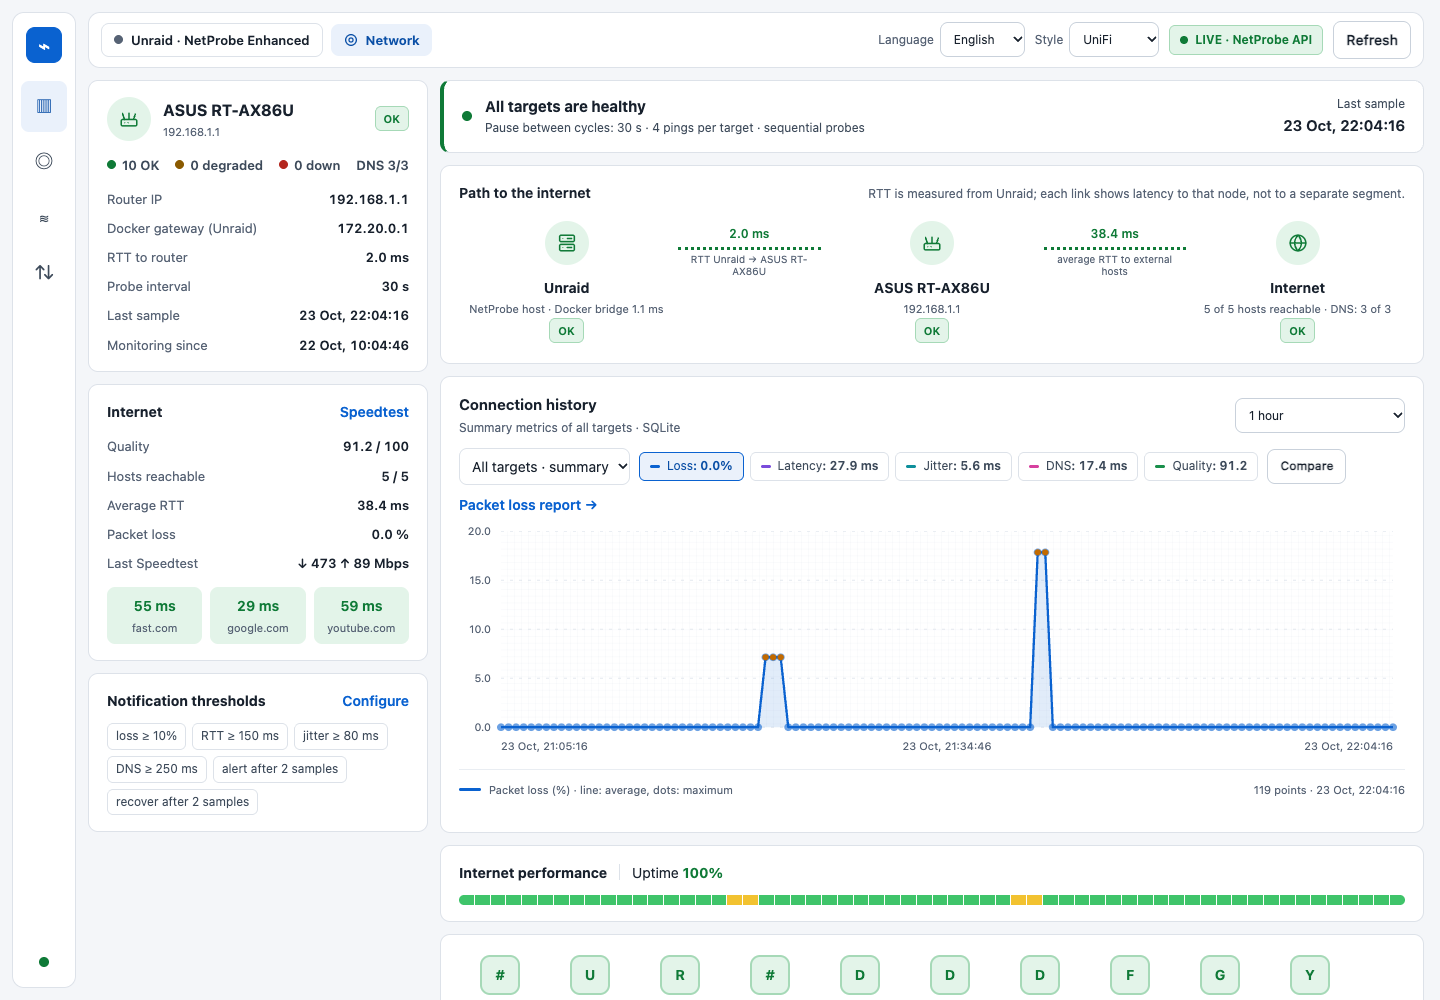
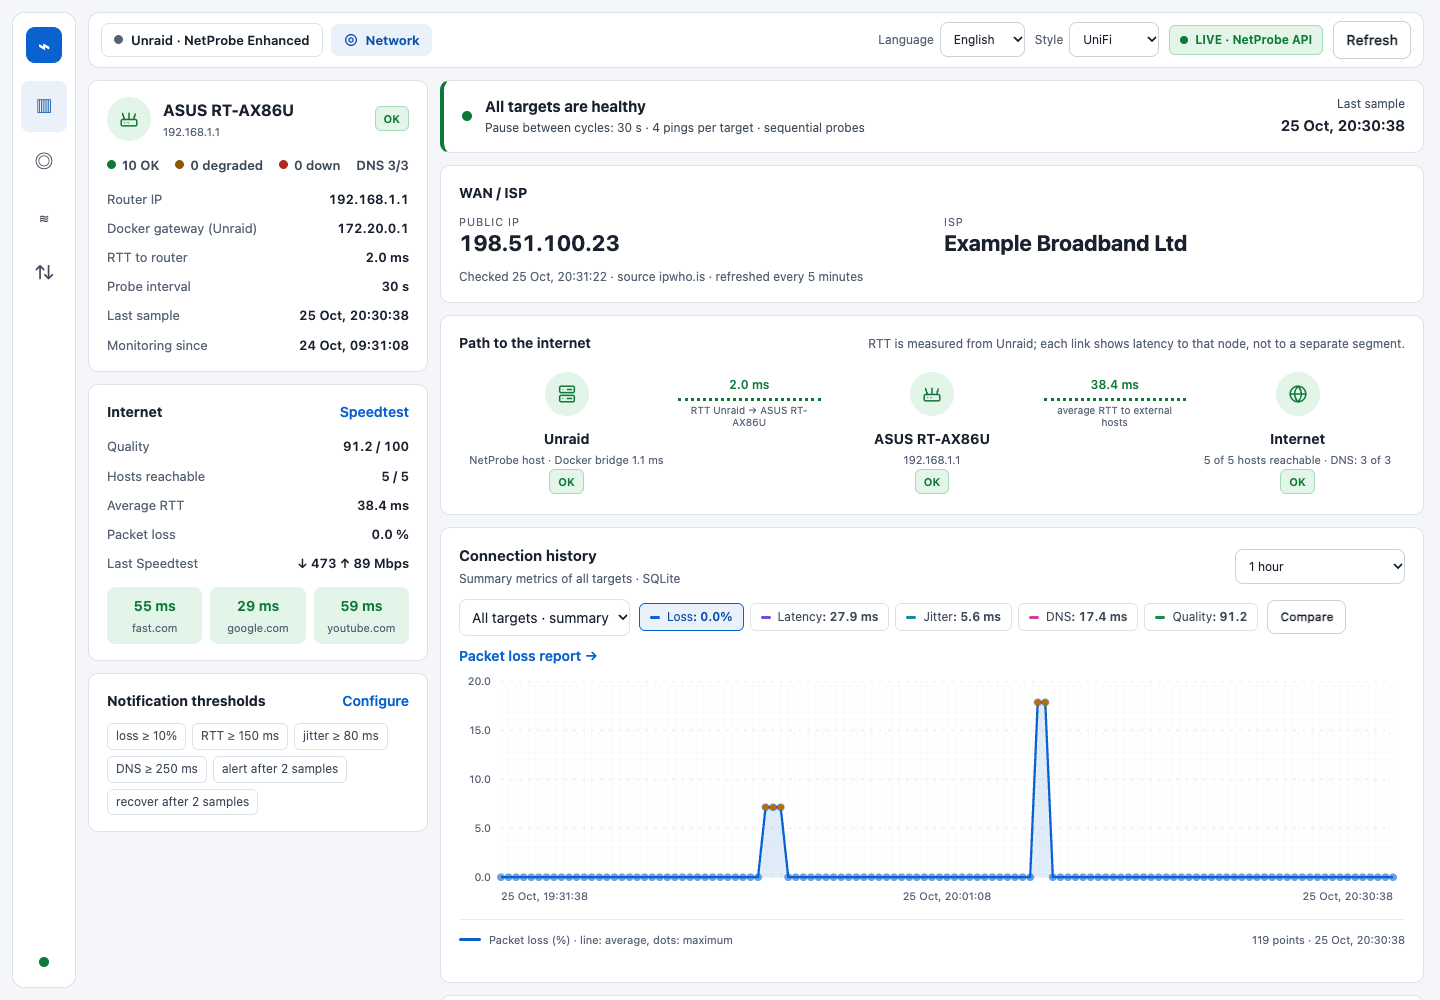
Screenshots for the new features; fixtures without place names
Regenerated docs/screenshots with the WAN / ISP card, the Speedtest schedule, the history settings and the pinned
phone menu. Everything on them is invented: the demo server replaces the IP lookup with the documentation address
198.51.100.23 and a fictional provider, the router is a made-up ASUS RT-AX86U at 192.168.1.1. Test fixtures and the
notification example use Example City and Europe/Berlin instead of real place names and time zones.

diff --git a/tests/test_speedtest_schedule.py b/tests/test_speedtest_schedule.py
@@ -17,12 +17,12 @@ sys.path.insert(0, str(ROOT / "tests"))
 from fixture_db import make_database  # noqa: E402
 import netprobe_extensions as npx  # noqa: E402
 
-BUCHAREST = ZoneInfo("Europe/Bucharest")
+BERLIN = ZoneInfo("Europe/Berlin")
 HEADERS = {"X-NetProbe-Request": "settings"}
 
 
 def local(year, month, day, hour, minute=0):
-    return datetime(year, month, day, hour, minute, tzinfo=BUCHAREST).timestamp()
+    return datetime(year, month, day, hour, minute, tzinfo=BERLIN).timestamp()
 
 
 class Base(unittest.TestCase):
@@ -37,7 +37,7 @@ class Base(unittest.TestCase):
         self.addCleanup(self.conn.close)
         self.conn.execute("DELETE FROM speedtests")
         self.conn.commit()
-        env = patch.dict(os.environ, {"APP_TIMEZONE": "Europe/Bucharest"})
+        env = patch.dict(os.environ, {"APP_TIMEZONE": "Europe/Berlin"})
         env.start()
         self.addCleanup(env.stop)
         self.now = now
@@ -51,7 +51,7 @@ class Base(unittest.TestCase):
 
     def add_test(self, ts, down=400.0, up=90.0, ping=12.0, backend="fast"):
         self.conn.execute("INSERT INTO speedtests(ts,ping_ms,download_mbps,upload_mbps,backend,server_name,server_country) VALUES (?,?,?,?,?,?,?)",
-                          (int(ts), ping, down, up, backend, "Netflix, Brasov", "RO"))
+                          (int(ts), ping, down, up, backend, "Netflix, Example City", "RO"))
         self.conn.commit()
 
 
@@ -131,19 +131,20 @@ class ScheduleTests(Base):
         self.assertFalse(self.ext.speedtest_due(self.now))
 
     def test_times_use_the_container_timezone(self):
-        now_utc = datetime(2026, 3, 10, 3, 10, tzinfo=timezone.utc).timestamp()
-        self.assertFalse(self.ext.speedtest_due(now_utc), "03:10 UTC is 05:10 in Bucharest: the 03:00 slot is past its catch-up window")
+        now_utc = datetime(2026, 3, 10, 2, 10, tzinfo=timezone.utc).timestamp()  # 03:10 in Berlin, 02:10 in UTC
+        self.assertTrue(self.ext.speedtest_due(now_utc), "03:10 in the configured zone: the 03:00 slot has just passed")
         with patch.dict(os.environ, {"APP_TIMEZONE": "UTC"}):
-            self.assertTrue(self.ext.speedtest_due(now_utc), "the same instant is 03:10 in UTC")
+            self.assertFalse(self.ext.speedtest_due(now_utc), "the same instant is 02:10 in UTC: the 03:00 slot is still ahead")
         with patch.dict(os.environ, {"APP_TIMEZONE": "Nowhere/Land"}):
             self.assertEqual(str(self.ext.tz), "UTC", "an unknown zone falls back to UTC instead of failing")
 
     def test_clocks_going_back_do_not_run_the_slot_twice(self):
-        # 2026-10-25: Bucharest goes from 04:00 EEST back to 03:00 EET, so 03:xx happens twice
-        self.now = local(2026, 10, 25, 3, 10)
+        # 2026-10-25: Berlin goes from 03:00 CEST back to 02:00 CET, so 02:xx happens twice
+        self.prefs(speedtest_times=["02:30"])
+        self.now = local(2026, 10, 25, 2, 40)
         self.assertTrue(self.ext.speedtest_due(self.now))
         self.add_test(self.now)
-        self.now += 3600  # the repeated 03:10
+        self.now += 3600  # the repeated 02:40
         self.assertFalse(self.ext.speedtest_due(self.now))
 
     def test_next_test_is_reported(self):
@@ -153,11 +154,11 @@ class ScheduleTests(Base):
         self.prefs(speedtest_schedule="off")
         self.assertIsNone(self.ext.next_speedtest(self.now))
         data = self.client.get("/api/prefs").get_json()
-        self.assertEqual((data["schedule"]["next_ts"], data["schedule"]["timezone"]), (None, "Europe/Bucharest"))
+        self.assertEqual((data["schedule"]["next_ts"], data["schedule"]["timezone"]), (None, "Europe/Berlin"))
 
     def test_api_shows_the_next_daily_test(self):
         data = self.client.get("/api/prefs").get_json()
-        self.assertEqual(data["schedule"], {"next_ts": local(2026, 3, 11, 3, 0), "timezone": "Europe/Bucharest"})
+        self.assertEqual(data["schedule"], {"next_ts": local(2026, 3, 11, 3, 0), "timezone": "Europe/Berlin"})
 
 
 class IntervalTests(Base):
@@ -186,7 +187,7 @@ class NotificationTests(Base):
     def setUp(self):
         self.make_ext(local(2026, 3, 10, 3, 10))
         self.result = {"download_mbps": 482.34, "upload_mbps": 91.0, "ping_ms": 12.04, "backend": "fast",
-                       "server": {"name": "Netflix, Brasov", "country": "RO"}}
+                       "server": {"name": "Netflix, Example City", "country": "RO"}}
 
     def queued(self):
         return self.conn.execute("SELECT level,subject,description,message FROM np_notifications ORDER BY id").fetchall()
@@ -209,7 +210,7 @@ class NotificationTests(Base):
         self.assertIn("• Download: 482.3 Mbps", lines)
         self.assertIn("• Upload: 91.0 Mbps", lines)
         self.assertIn("• Ping: 12.0 ms", lines)
-        self.assertIn("• Server: Netflix, Brasov, RO", lines)
+        self.assertIn("• Server: Netflix, Example City, RO", lines)
         self.assertEqual([l for l in lines if l.startswith("• Previous")], ["• Previous: ↓ 470 / ↑ 88 Mbps (03:01, 09.03)"])
         self.assertTrue(re.fullmatch(r"Time: \d\d:\d\d, 10\.03\.2026 .+", lines[-1]), lines[-1])
         self.assertNotRegex(message.replace("\\n", ""), r"[\x00-\x1f\\]")

diff --git a/tests/test_speedtest_services.py b/tests/test_speedtest_services.py
@@ -56,7 +56,7 @@ class FakeFast(ThreadingHTTPServer):
             elif self.path.startswith("/netflix/speedtest/v2"):
                 assert "token=FAKETOKEN12345" in self.path
                 targets = [{"name": "t%d" % i, "url": "%s/speedtest?c=ro&t=k%d" % (self.server.base, i),
-                            "location": {"city": "Brasov", "country": "RO"}} for i in range(opts["targets"])]
+                            "location": {"city": "Example City", "country": "RO"}} for i in range(opts["targets"])]
                 self.reply(200, json.dumps({"client": {"ip": "203.0.113.9", "isp": "ExampleNet"}, "targets": targets}).encode(), "application/json")
             elif self.path.startswith("/speedtest/range/0-"):
                 size = int(self.path.split("/range/0-")[1].split("?")[0])
@@ -100,7 +100,7 @@ class FastClientTests(unittest.TestCase):
         self.assertGreater(result["download_mbps"], 1)
         self.assertGreater(result["upload_mbps"], 1)
         self.assertGreaterEqual(result["ping_ms"], 0)
-        self.assertEqual(result["server"], {"id": None, "name": "Netflix, Brasov", "host": "127.0.0.1", "country": "RO"})
+        self.assertEqual(result["server"], {"id": None, "name": "Netflix, Example City", "host": "127.0.0.1", "country": "RO"})
         self.assertEqual((result["isp"], result["protocol"], result["secure"]), ("ExampleNet", "https", True))
         self.assertNotIn("203.0.113.9", json.dumps(result), "the client address is not part of a stored result")
         methods = {m for m, _ in self.server.hits}
@@ -221,7 +221,7 @@ class AppWiringTests(unittest.TestCase):
             spec.loader.exec_module(self.module)
         self.client = self.module.app.test_client()
         self.fast_result = {"ping_ms": 11.5, "download_mbps": 321.5, "upload_mbps": None,
-                            "server": {"id": None, "name": "Netflix, Brasov", "host": "oca.example", "country": "RO"},
+                            "server": {"id": None, "name": "Netflix, Example City", "host": "oca.example", "country": "RO"},
                             "jitter_ms": 1.0, "packet_loss_pct": None, "isp": "ExampleNet", "result_url": None,
                             "protocol": "https", "secure": True}
 
@@ -253,7 +253,7 @@ class AppWiringTests(unittest.TestCase):
                          ("fast", 321.5, None))
         latest = self.client.get("/api/speedtest/latest").get_json()["result"]
         self.assertEqual((latest["backend"], latest["download_mbps"], latest["upload_mbps"], latest["ping_ms"]), ("fast", 321.5, None, 11.5))
-        self.assertEqual(latest["server"]["name"], "Netflix, Brasov")
+        self.assertEqual(latest["server"]["name"], "Netflix, Example City")
         row = sqlite3.connect(self.db).execute("SELECT backend, upload_mbps FROM speedtests ORDER BY ts DESC LIMIT 1").fetchone()
         self.assertEqual(row, ("fast", None))
 

diff --git a/tests/demo_server.py b/tests/demo_server.py
@@ -91,6 +91,12 @@ def main():
                          "requested_server_id,backend) VALUES (?,?,?,?,?,?,?,?,?,?)",
                          (now - int(hours_ago * 3600), ping, down, up, "10001", "Example City", "speedtest.example.net:8080", "Exampleland", None, "python"))
 
+    # the extension features shown in the screenshots; nothing here touches the network: the lookup is replaced by invented values
+    ext = module.custom_extension
+    ext.ip_fetch = lambda url, timeout=None: ("198.51.100.23", "Example Broadband Ltd")  # documentation address, invented provider
+    ext.update_prefs({"show_public_ip": True, "speedtest_service": "python", "speedtest_schedule": "daily",
+                      "speedtest_times": ["03:00"], "speedtest_notify": True})
+
     def keep_probing():  # new probe every STEP seconds so the dashboard stays LIVE
         index = total
         while True:

diff --git a/tests/test_responsiveness.py b/tests/test_responsiveness.py
@@ -116,7 +116,7 @@ class BackgroundSpeedtestTests(AppTestCase):
             self.assertTrue(self.wait_done()["success"])
 
     def test_real_run_through_the_job_stores_the_result(self):
-        fast = {"ping_ms": 11.5, "download_mbps": 321.5, "upload_mbps": None, "server": {"id": None, "name": "Netflix, Brasov", "host": "oca", "country": "RO"},
+        fast = {"ping_ms": 11.5, "download_mbps": 321.5, "upload_mbps": None, "server": {"id": None, "name": "Netflix, Example City", "host": "oca", "country": "RO"},
                 "jitter_ms": 1.0, "packet_loss_pct": None, "isp": None, "result_url": None, "protocol": "https", "secure": True}
         with patch.object(self.module.custom_extension, "run_fast_speedtest", return_value=fast):
             self.client.post("/api/speedtest/run", json={"backend": "fast", "async": True})

diff --git a/docs/NOTIFICATIONS.md b/docs/NOTIFICATIONS.md
@@ -127,7 +127,7 @@ The *Speedtest* tab (*Schedule and notifications*) can run the test automaticall
 • Download: 482.3 Mbps
 • Upload: 91.0 Mbps
 • Ping: 12.0 ms
-• Server: Netflix, Brasov, RO
+• Server: Netflix, Example City, RO
 • Previous: ↓ 470 / ↑ 88 Mbps (03:01, 09.03)
 
 Time: 03:02, 10.03.2026 EET
